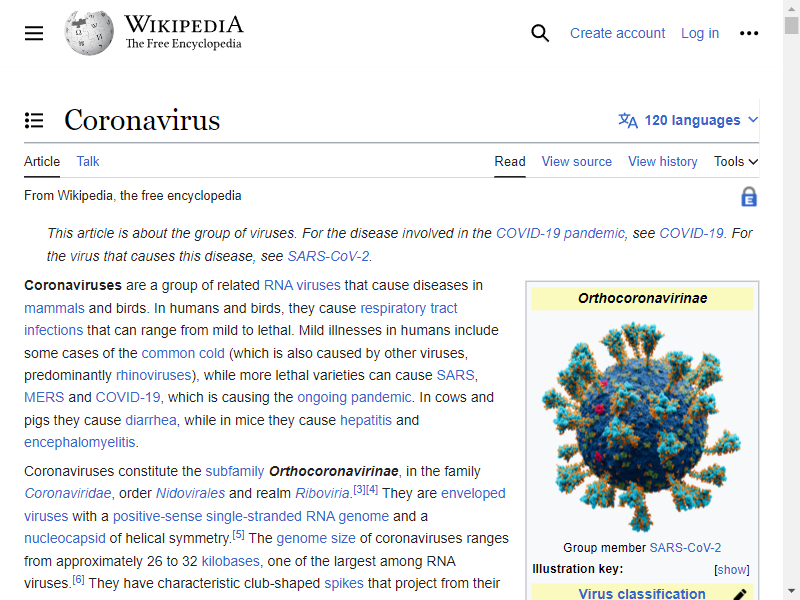
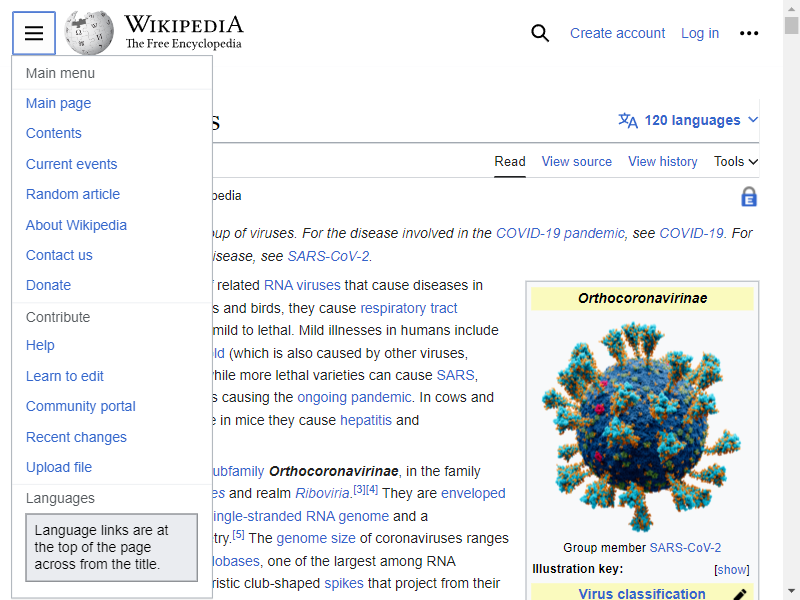
Updated

Changed region(s): [[0.0, 0.09, 0.2812, 1.0], [0.0312, 0.0, 0.0625, 0.03], [0.0, 0.06, 0.0312, 0.09]]

diff --git a/index.js b/index.js
@@ -4,11 +4,22 @@ async function func(){
   // Launch the browser and open a new blank page
   const browser = await puppeteer.launch({headless : false});
   const page = await browser.newPage();
+  
 
   // Navigate the page to a URL
   await page.goto('https://en.wikipedia.org/wiki/Coronavirus');
-
+  
+  await page.click('#vector-main-menu-dropdown-checkbox')
   await page.screenshot({path : 'wiki.png'});
+  const result = await page.evaluate(()=>{
+    let a = document.querySelectorAll('.mw-headline')
+    let b = [...a]
+
+    return b.map(h => h.innerText)
+  })
+  console.log(result)
+
+  
   await browser.waitForTarget(()=>false)
   await browser.close();
 }
